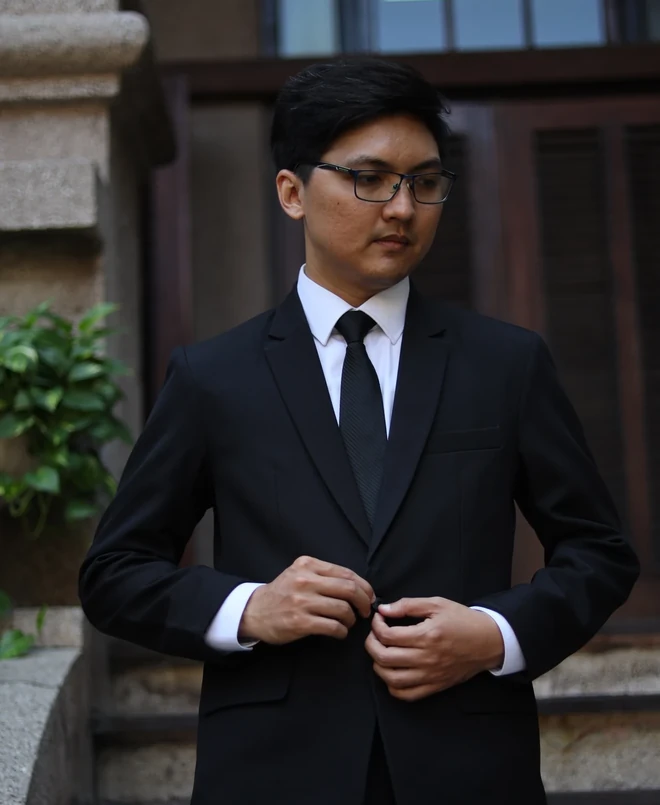
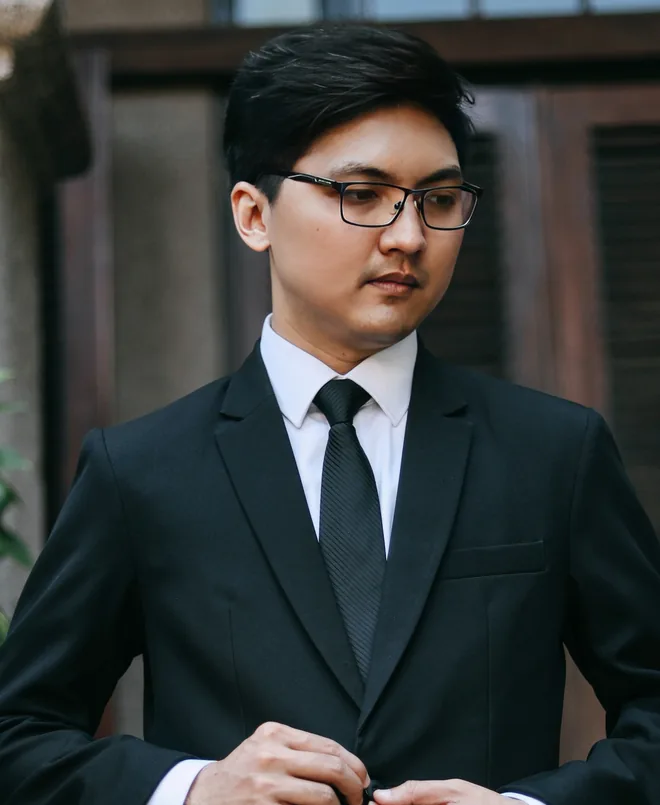
Feat: Finish wedding invitation

diff --git a/components/storyboard/StoryboardStage.tsx b/components/storyboard/StoryboardStage.tsx
@@ -4,6 +4,40 @@ import { useEffect, useLayoutEffect, useRef, useState } from 'react';
 import { SceneController, detectLayout, LAYOUT_SIZE, type Layout, type RefMap } from './SceneController';
 import { WEDDING_DATA } from '@/lib/constants';
 
+// Tap-to-copy for the gift card (account number / address). Falls back to
+// execCommand because navigator.clipboard needs a secure context (HTTPS),
+// and guests may open the dev/LAN build over plain http.
+async function copyText(text: string): Promise<boolean> {
+  try {
+    if (navigator.clipboard && window.isSecureContext) {
+      await navigator.clipboard.writeText(text);
+      return true;
+    }
+  } catch {
+    /* fall through */
+  }
+  try {
+    const ta = document.createElement('textarea');
+    ta.value = text;
+    ta.setAttribute('readonly', '');
+    ta.style.cssText = 'position:fixed;top:0;left:0;opacity:0;pointer-events:none';
+    document.body.appendChild(ta);
+    ta.select();
+    ta.setSelectionRange(0, text.length);
+    const ok = document.execCommand('copy');
+    document.body.removeChild(ta);
+    return ok;
+  } catch {
+    return false;
+  }
+}
+
+const COPY_BTN: React.CSSProperties = {
+  display: 'flex', flexDirection: 'column', alignItems: 'flex-start', gap: 6, padding: 0, margin: 0,
+  border: 0, background: 'transparent', textAlign: 'left', cursor: 'pointer', font: 'inherit', color: 'inherit',
+  WebkitTapHighlightColor: 'transparent',
+};
+
 type Wish = { id: string; name: string; message: string; when: string };
 type RsvpState = {
   status: 'hadir' | 'tidak_hadir' | null;
@@ -75,6 +109,16 @@ export default function StoryboardStage({
 
   const [rsvp, setRsvp] = useState<RsvpState>(initialRsvp);
   const [showShortCode, setShowShortCode] = useState(false);
+  const [copied, setCopied] = useState<string | null>(null);
+  const copiedTimer = useRef<ReturnType<typeof setTimeout> | null>(null);
+  const doCopy = async (key: string, text: string) => {
+    if (!text) return;
+    if (await copyText(text)) {
+      setCopied(key);
+      if (copiedTimer.current) clearTimeout(copiedTimer.current);
+      copiedTimer.current = setTimeout(() => setCopied(null), 1800);
+    }
+  };
   const [reopenCount, setReopenCount] = useState('1');
   const [reopening, setReopening] = useState(false);
 
@@ -361,9 +405,11 @@ export default function StoryboardStage({
         {/*
           Frame 07 photo slot (2026-09-26). The concept doc left this frame
           "menunggu satu foto baru" after the original couple photo moved to
-          frame 03. Uses photo-10 (the two of them standing side by side,
-          hand in hand — "akhirnya berdiri berdampingan"), cropped to 3:4 as
-          /photos/reunited-together.webp. Framed like the frame-03 cards.
+          frame 03. Uses prewedding photo 0C5A1190 (user's pick: the two of
+          them standing side by side, hand in hand, on a rock below the
+          waterfall — "akhirnya berdiri berdampingan"), cropped to 3:4 as /photos/reunited-together.webp
+          (2026-10-24; couple-reinaldo/eunike.webp likewise now come from
+          0C5A0703 / 0C5A0677 of the same set). Framed like the frame-03 cards.
           Sits in the scene area: below the shrunken monogram crest, above
           the frame-07 text (portrait) / centred in the left half
           (landscape). Opacity/transform driven from paint().
@@ -384,7 +430,7 @@ export default function StoryboardStage({
           }}
         >
           {/* eslint-disable-next-line @next/next/no-img-element */}
-          <img src="/photos/reunited-together.webp" alt="Reinaldo and Eunike, side by side" style={{ display: 'block', width: '100%', aspectRatio: '3 / 4', objectFit: 'cover' }} />
+          <img src="/photos/reunited-together.webp" alt="Reinaldo and Eunike, side by side at the waterfall" style={{ display: 'block', width: '100%', aspectRatio: '3 / 4', objectFit: 'cover' }} />
         </div>
 
         <div
@@ -947,7 +993,7 @@ export default function StoryboardStage({
         >
           <div style={{ fontSize: 24, letterSpacing: '.34em', textTransform: 'uppercase', color: '#A08B62' }}>Gallery</div>
           <p style={{ margin: 0, maxWidth: 820, textAlign: 'center', fontFamily: "'Cormorant Garamond',serif", fontSize: 48, lineHeight: 1.4, color: '#5A4830' }}>
-            The small pieces of our journey — from the first meeting to this very day — gathered into one album.
+            A few moments from our prewedding — city streets, old halls, and a waterfall — gathered into one album.
           </p>
           <button
             onClick={() => c().onScrapOpen()}
@@ -1318,7 +1364,10 @@ export default function StoryboardStage({
                 <div key={i} style={{ display: 'flex', flexDirection: 'column', gap: land ? 8 : 12, padding: land ? '26px 34px' : '36px 38px', background: 'rgba(253,250,243,.96)', border: '1px solid rgba(122,95,53,.26)', boxShadow: '0 24px 54px rgba(122,95,53,.18)' }}>
                   <span style={{ fontSize: 20, letterSpacing: '.22em', textTransform: 'uppercase', color: '#A08B62' }}>{acc.bank || 'Bank'}</span>
                   <span style={{ fontFamily: "'Cormorant Garamond',serif", fontStyle: 'italic', fontSize: land ? 26 : 30, color: '#8A6B3A' }}>Account Number</span>
-                  <span style={{ fontFamily: "'Cormorant Garamond',serif", fontSize: land ? 44 : 60, lineHeight: 1.1, color: '#7A5F35', letterSpacing: '.04em', whiteSpace: 'nowrap' }}>{acc.accountNumber || '—'}</span>
+                  <button type="button" onClick={() => doCopy(`acc${i}`, acc.accountNumber.replace(/\s+/g, ''))} aria-label={`Copy account number ${acc.accountNumber}`} style={COPY_BTN}>
+                    <span style={{ fontFamily: "'Cormorant Garamond',serif", fontSize: land ? 44 : 60, lineHeight: 1.1, color: '#7A5F35', letterSpacing: '.04em', whiteSpace: 'nowrap' }}>{acc.accountNumber || '—'}</span>
+                    <span style={{ fontFamily: "'Jost',sans-serif", fontSize: land ? 15 : 18, letterSpacing: '.18em', textTransform: 'uppercase', color: copied === `acc${i}` ? '#5E7A3A' : '#A08B62' }}>{copied === `acc${i}` ? 'Copied ✓' : 'Tap to copy'}</span>
+                  </button>
                   <span style={{ marginTop: land ? 6 : 10, fontFamily: "'Cormorant Garamond',serif", fontStyle: 'italic', fontSize: land ? 26 : 30, color: '#8A6B3A' }}>Account Name</span>
                   <span style={{ fontFamily: "'Cormorant Garamond',serif", fontSize: land ? 32 : 38, color: '#5A4830' }}>{acc.accountName || '—'}</span>
                 </div>
@@ -1331,7 +1380,10 @@ export default function StoryboardStage({
                   {WEDDING_DATA.giftAddress.recipient || '—'} {WEDDING_DATA.giftAddress.phone ? `· ${WEDDING_DATA.giftAddress.phone}` : ''}
                 </span>
                 <span style={{ marginTop: land ? 6 : 10, fontFamily: "'Cormorant Garamond',serif", fontStyle: 'italic', fontSize: land ? 26 : 30, color: '#8A6B3A' }}>Address</span>
-                <span style={{ fontFamily: "'Cormorant Garamond',serif", fontSize: land ? 32 : 36, lineHeight: 1.4, color: '#5A4830' }}>{WEDDING_DATA.giftAddress.address || '—'}</span>
+                <button type="button" onClick={() => doCopy('addr', WEDDING_DATA.giftAddress.copyAddress || WEDDING_DATA.giftAddress.address)} aria-label="Copy address" style={COPY_BTN}>
+                  <span style={{ fontFamily: "'Cormorant Garamond',serif", fontSize: land ? 32 : 36, lineHeight: 1.4, color: '#5A4830' }}>{WEDDING_DATA.giftAddress.address || '—'}</span>
+                  <span style={{ fontFamily: "'Jost',sans-serif", fontSize: land ? 15 : 18, letterSpacing: '.18em', textTransform: 'uppercase', color: copied === 'addr' ? '#5E7A3A' : '#A08B62' }}>{copied === 'addr' ? 'Copied ✓' : 'Tap to copy'}</span>
+                </button>
               </div>
             </div>
           </div>
@@ -1365,13 +1417,12 @@ export default function StoryboardStage({
             bar is driven imperatively from SceneController (onScrapScroll),
             matching this component's usual pattern of plain refs +
             imperative DOM writes rather than React state.
-            15 photo slots filled with this project's existing sample/couple
-            photos (photo-01..11.webp + couple-reinaldo/eunike.webp) —
-            photo-04.webp and photo-05.webp are reused a second time to fill
-            the 2 extra slots since only 13 source files exist on disk;
-            final curated scrapbook photos still TBD per the project's
-            "Not started" list; video slot renders a real YouTube embed once
-            WEDDING_DATA.youtubeVideoId is filled in, placeholder until then. */}
+            15 photo slots use the real prewedding photos
+            (public/photos/gallery/gallery-01..15.webp, picked 2026-10-24
+            from the photographer's 43-photo set: casual city, formal
+            heritage building, waterfall); objectPosition tweaks keep faces
+            in frame where a slot crops a portrait hard. Video slot embeds
+            WEDDING_DATA.youtubeVideoId. */}
         <div
           ref={bind('scrap')}
           onClick={() => c().onScrapClose()}
@@ -1448,42 +1499,42 @@ export default function StoryboardStage({
                   <div style={{ position: 'absolute', right: -39, top: -28, width: 205, height: 53, background: 'rgba(226,205,160,.55)', transform: 'rotate(7deg)' }} />
                   <div style={{ position: 'relative', width: '100%', aspectRatio: '4/3' }}>
                     {/* eslint-disable-next-line @next/next/no-img-element */}
-                    <img src="/photos/photo-01.webp" alt="Our story begins" style={{ width: '100%', height: '100%', objectFit: 'cover', display: 'block' }} draggable={false} />
+                    <img src="/photos/gallery/gallery-01.webp" alt="Our story begins" style={{ width: '100%', height: '100%', objectFit: 'cover', display: 'block' }} draggable={false} />
                   </div>
-                  <div style={{ position: 'absolute', left: 0, right: 0, bottom: 28, textAlign: 'center', fontFamily: "'Cormorant Garamond',serif", fontStyle: 'italic', fontSize: 44, color: '#6B573A' }}>opening photo</div>
                 </div>
 
                 {/* Portrait pair */}
                 <div style={{ display: 'grid', gridTemplateColumns: 'minmax(0,1fr) minmax(0,1fr)', gap: 44, alignItems: 'start' }}>
                   {[
-                    { src: '/photos/photo-02.webp', rot: 1.6, no: '02' },
-                    { src: '/photos/photo-03.webp', rot: -2, no: '03' },
+                    { src: '/photos/gallery/gallery-02.webp', rot: 1.6, no: '02' },
+                    { src: '/photos/gallery/gallery-03.webp', rot: -2, no: '03' },
                   ].map((p) => (
                     <div key={p.no} data-photo style={{ position: 'relative', minWidth: 0, minHeight: 0, padding: '22px 22px 72px', background: '#FFFDF7', boxShadow: '0 28px 60px rgba(90,72,48,.16)', transform: `rotate(${p.rot}deg)`, transition: 'transform .45s cubic-bezier(.2,.75,.2,1),box-shadow .45s', cursor: 'zoom-in' }}>
                       <div style={{ position: 'relative', width: '100%', aspectRatio: '3/4' }}>
                         {/* eslint-disable-next-line @next/next/no-img-element */}
                         <img src={p.src} alt="Portrait" style={{ width: '100%', height: '100%', objectFit: 'cover', display: 'block' }} draggable={false} />
                       </div>
-                      <div style={{ position: 'absolute', left: 0, right: 0, bottom: 22, textAlign: 'center', fontSize: 25, letterSpacing: '.26em', color: '#A08B62' }}>{p.no}</div>
                     </div>
                   ))}
                 </div>
 
                 {/* Collage */}
                 <div style={{ display: 'flex', flexDirection: 'column', gap: 38, padding: '55px 44px', background: 'repeating-linear-gradient(135deg,#F2EADA 0 16px,#EFE6D2 16px 32px)', border: '1px solid rgba(122,95,53,.2)', boxShadow: '0 28px 66px rgba(90,72,48,.1)' }}>
-                  <div style={{ fontSize: 25, letterSpacing: '.32em', textTransform: 'uppercase', color: '#A08B62' }}>collage</div>
                   <div style={{ display: 'grid', gridTemplateColumns: 'minmax(0,1.2fr) minmax(0,1fr)', gridTemplateRows: '266px 266px', gap: 28 }}>
                     <div data-photo style={{ position: 'relative', gridRow: 'span 2', minWidth: 0, minHeight: 0, height: '100%', padding: 17, background: '#FFFDF7', boxShadow: '0 22px 50px rgba(90,72,48,.16)', transition: 'transform .45s cubic-bezier(.2,.75,.2,1),box-shadow .45s', cursor: 'zoom-in' }}>
                       <div style={{ position: 'relative', width: '100%', height: '100%' }}>
                         {/* eslint-disable-next-line @next/next/no-img-element */}
-                        <img src="/photos/couple-reinaldo.webp" alt="Together" style={{ width: '100%', height: '100%', objectFit: 'cover', display: 'block' }} draggable={false} />
+                        <img src="/photos/gallery/gallery-04.webp" alt="Together" style={{ width: '100%', height: '100%', objectFit: 'cover', objectPosition: 'center 100%', display: 'block' }} draggable={false} />
                       </div>
                     </div>
-                    {['/photos/photo-04.webp', '/photos/photo-05.webp'].map((src) => (
+                    {[
+                      { src: '/photos/gallery/gallery-05.webp', pos: 'center 55%' },
+                      { src: '/photos/gallery/gallery-06.webp', pos: 'center 75%' },
+                    ].map(({ src, pos }) => (
                       <div key={src} data-photo style={{ position: 'relative', minWidth: 0, minHeight: 0, padding: 17, background: '#FFFDF7', boxShadow: '0 22px 50px rgba(90,72,48,.16)', transition: 'transform .45s cubic-bezier(.2,.75,.2,1),box-shadow .45s', cursor: 'zoom-in' }}>
                         <div style={{ position: 'relative', width: '100%', height: '100%' }}>
                           {/* eslint-disable-next-line @next/next/no-img-element */}
-                          <img src={src} alt="Together" style={{ width: '100%', height: '100%', objectFit: 'cover', display: 'block' }} draggable={false} />
+                          <img src={src} alt="Together" style={{ width: '100%', height: '100%', objectFit: 'cover', objectPosition: pos, display: 'block' }} draggable={false} />
                         </div>
                       </div>
                     ))}
@@ -1491,53 +1542,42 @@ export default function StoryboardStage({
                   <div data-photo style={{ position: 'relative', minWidth: 0, minHeight: 0, padding: 17, background: '#FFFDF7', boxShadow: '0 22px 50px rgba(90,72,48,.16)', transition: 'transform .45s cubic-bezier(.2,.75,.2,1),box-shadow .45s', cursor: 'zoom-in' }}>
                     <div style={{ position: 'relative', width: '100%', aspectRatio: '2/1' }}>
                       {/* eslint-disable-next-line @next/next/no-img-element */}
-                      <img src="/photos/photo-06.webp" alt="Together" style={{ width: '100%', height: '100%', objectFit: 'cover', display: 'block' }} draggable={false} />
+                      <img src="/photos/gallery/gallery-07.webp" alt="Together" style={{ width: '100%', height: '100%', objectFit: 'cover', display: 'block' }} draggable={false} />
                     </div>
                   </div>
                 </div>
 
                 {/* A favorite frame */}
                 <div style={{ display: 'flex', flexDirection: 'column', gap: 44 }}>
-                  <div style={{ display: 'flex', alignItems: 'center', gap: 32 }}>
-                    <span style={{ fontSize: 25, letterSpacing: '.32em', textTransform: 'uppercase', color: '#A08B62' }}>a favorite frame</span>
-                    <span style={{ flex: 1, height: 2, background: 'rgba(122,95,53,.25)' }} />
-                  </div>
                   <div data-photo style={{ position: 'relative', minWidth: 0, minHeight: 0, padding: '28px 28px 89px', background: '#FFFDF7', boxShadow: '0 38px 84px rgba(90,72,48,.2)', transform: 'rotate(1.1deg)', transition: 'transform .45s cubic-bezier(.2,.75,.2,1),box-shadow .45s', cursor: 'zoom-in' }}>
                     <div style={{ position: 'relative', width: '100%', aspectRatio: '4/5' }}>
                       {/* eslint-disable-next-line @next/next/no-img-element */}
-                      <img src="/photos/couple-eunike.webp" alt="Our favorite" style={{ width: '100%', height: '100%', objectFit: 'cover', display: 'block' }} draggable={false} />
+                      <img src="/photos/gallery/gallery-08.webp" alt="Our favorite" style={{ width: '100%', height: '100%', objectFit: 'cover', display: 'block' }} draggable={false} />
                     </div>
-                    <div style={{ position: 'absolute', left: 0, right: 0, bottom: 28, textAlign: 'center', fontFamily: "'Cormorant Garamond',serif", fontStyle: 'italic', fontSize: 44, color: '#6B573A' }}>favorite</div>
                   </div>
                 </div>
 
                 {/* Instant frames */}
                 <div style={{ display: 'flex', flexDirection: 'column', gap: 44 }}>
-                  <div style={{ display: 'flex', alignItems: 'center', gap: 32 }}>
-                    <span style={{ fontSize: 25, letterSpacing: '.32em', textTransform: 'uppercase', color: '#A08B62' }}>instant frames</span>
-                    <span style={{ flex: 1, height: 2, background: 'rgba(122,95,53,.25)' }} />
-                  </div>
                   <div style={{ display: 'grid', gridTemplateColumns: 'minmax(0,1fr) minmax(0,1fr)', gap: 44, alignItems: 'start' }}>
                     {[
-                      { src: '/photos/photo-07.webp', rot: -3, no: '09' },
-                      { src: '/photos/photo-08.webp', rot: 2, no: '10' },
-                      { src: '/photos/photo-04.webp', rot: -2.4, no: '11' },
-                      { src: '/photos/photo-05.webp', rot: 1.8, no: '12' },
+                      { src: '/photos/gallery/gallery-09.webp', rot: -3, no: '09', pos: 'center 40%' },
+                      { src: '/photos/gallery/gallery-10.webp', rot: 2, no: '10', pos: 'center 50%' },
+                      { src: '/photos/gallery/gallery-11.webp', rot: -2.4, no: '11', pos: 'center 60%' },
+                      { src: '/photos/gallery/gallery-12.webp', rot: 1.8, no: '12', pos: 'center 70%' },
                     ].map((p) => (
                       <div key={p.no} data-photo style={{ position: 'relative', minWidth: 0, minHeight: 0, padding: '22px 22px 83px', background: '#FFFEFA', boxShadow: '0 28px 60px rgba(90,72,48,.18)', transform: `rotate(${p.rot}deg)`, transition: 'transform .45s cubic-bezier(.2,.75,.2,1),box-shadow .45s', cursor: 'zoom-in' }}>
                         <div style={{ position: 'relative', width: '100%', aspectRatio: '1/1' }}>
                           {/* eslint-disable-next-line @next/next/no-img-element */}
-                          <img src={p.src} alt="Together" style={{ width: '100%', height: '100%', objectFit: 'cover', display: 'block' }} draggable={false} />
+                          <img src={p.src} alt="Together" style={{ width: '100%', height: '100%', objectFit: 'cover', objectPosition: p.pos, display: 'block' }} draggable={false} />
                         </div>
-                        <div style={{ position: 'absolute', left: 0, right: 0, bottom: 25, textAlign: 'center', fontSize: 25, letterSpacing: '.26em', color: '#A08B62' }}>{p.no}</div>
                       </div>
                     ))}
                     <div data-photo style={{ position: 'relative', gridColumn: 'span 2', minWidth: 0, justifySelf: 'center', width: '62%', padding: '22px 22px 83px', background: '#FFFEFA', boxShadow: '0 28px 60px rgba(90,72,48,.18)', transform: 'rotate(-1.4deg)', transition: 'transform .45s cubic-bezier(.2,.75,.2,1),box-shadow .45s', cursor: 'zoom-in' }}>
                       <div style={{ position: 'relative', width: '100%', aspectRatio: '1/1' }}>
                         {/* eslint-disable-next-line @next/next/no-img-element */}
-                        <img src="/photos/photo-09.webp" alt="Together" style={{ width: '100%', height: '100%', objectFit: 'cover', display: 'block' }} draggable={false} />
+                        <img src="/photos/gallery/gallery-13.webp" alt="Together" style={{ width: '100%', height: '100%', objectFit: 'cover', objectPosition: 'center 35%', display: 'block' }} draggable={false} />
                       </div>
-                      <div style={{ position: 'absolute', left: 0, right: 0, bottom: 25, textAlign: 'center', fontSize: 25, letterSpacing: '.26em', color: '#A08B62' }}>13</div>
                     </div>
                   </div>
                 </div>
@@ -1545,8 +1585,8 @@ export default function StoryboardStage({
                 {/* Landscape pair */}
                 <div style={{ display: 'flex', flexDirection: 'column', gap: 50 }}>
                   {[
-                    { src: '/photos/photo-10.webp', rot: -0.8 },
-                    { src: '/photos/photo-11.webp', rot: 1 },
+                    { src: '/photos/gallery/gallery-14.webp', rot: -0.8 },
+                    { src: '/photos/gallery/gallery-15.webp', rot: 1 },
                   ].map((p) => (
                     <div key={p.src} data-photo style={{ position: 'relative', minWidth: 0, minHeight: 0, padding: 22, background: '#FFFDF7', boxShadow: '0 32px 70px rgba(90,72,48,.16)', transform: `rotate(${p.rot}deg)`, transition: 'transform .45s cubic-bezier(.2,.75,.2,1),box-shadow .45s', cursor: 'zoom-in' }}>
                       <div style={{ position: 'relative', width: '100%', aspectRatio: '3/2' }}>
@@ -1559,10 +1599,6 @@ export default function StoryboardStage({
 
                 {/* Video slot */}
                 <div style={{ display: 'flex', flexDirection: 'column', gap: 38 }}>
-                  <div style={{ display: 'flex', alignItems: 'center', gap: 32 }}>
-                    <span style={{ fontSize: 25, letterSpacing: '.32em', textTransform: 'uppercase', color: '#A08B62' }}>short video</span>
-                    <span style={{ flex: 1, height: 2, background: 'rgba(122,95,53,.25)' }} />
-                  </div>
                   {WEDDING_DATA.youtubeVideoId ? (
                     <div style={{ position: 'relative', width: '100%', aspectRatio: '16/9', background: '#000', border: '1px solid rgba(122,95,53,.24)' }}>
                       <iframe
@@ -1610,7 +1646,7 @@ export default function StoryboardStage({
           style={{ position: 'absolute', inset: 0, background: 'rgba(20,15,10,.94)', display: 'flex', alignItems: 'center', justifyContent: 'center', padding: 80, boxSizing: 'border-box', opacity: 0, pointerEvents: 'none', cursor: 'pointer', transition: 'opacity .35s ease' }}
         >
           {/* eslint-disable-next-line @next/next/no-img-element */}
-          <img ref={bind('lbImg') as unknown as React.Ref<HTMLImageElement>} src="/photos/photo-01.webp" alt="Gallery photo" style={{ maxWidth: '100%', maxHeight: '100%', objectFit: 'contain', display: 'block', boxShadow: '0 40px 90px rgba(0,0,0,.6)' }} />
+          <img ref={bind('lbImg') as unknown as React.Ref<HTMLImageElement>} src="/photos/gallery/gallery-01.webp" alt="Gallery photo" style={{ maxWidth: '100%', maxHeight: '100%', objectFit: 'contain', display: 'block', boxShadow: '0 40px 90px rgba(0,0,0,.6)' }} />
           <span style={{ position: 'absolute', bottom: 120, fontSize: 22, letterSpacing: '.3em', textTransform: 'uppercase', color: 'rgba(240,228,200,.7)' }}>touch to close</span>
         </div>
 
@@ -1818,11 +1854,6 @@ export default function StoryboardStage({
               <div style={{ maxWidth: 720, fontSize: 25, lineHeight: 1.6, letterSpacing: '.04em', color: '#7A5F35', textAlign: 'center' }}>Should there be any error in the spelling of your name or title, we sincerely apologise.</div>
             </div>
             <div style={{ marginTop: 12, fontSize: 26, letterSpacing: '.4em', textTransform: 'uppercase', color: '#8A7248' }}>touch to open</div>
-          </div>
-
-          <div style={{ position: 'absolute', bottom: land ? 44 : 70, left: 0, right: 0, display: 'flex', flexDirection: 'column', alignItems: 'center', gap: 14 }}>
-            <div style={{ fontSize: 22, letterSpacing: '.26em', textTransform: 'uppercase', color: 'rgba(122,95,53,.45)' }}>WebGL · frames 01–14 · 90-second cut</div>
-            <div style={{ fontSize: 20, letterSpacing: '.18em', textTransform: 'uppercase', color: 'rgba(122,95,53,.35)' }}>space = pause · ← → = scrub · R = restart</div>
           </div>
         </div>
       </div>

diff --git a/lib/constants.ts b/lib/constants.ts
@@ -34,9 +34,11 @@ export const WEDDING_DATA = {
     recipient: 'Reinaldo',
     phone: '087887602355',
     address: 'Jalan Wimbledon Raya A1/09',
+    // Full address copied to the clipboard when the guest taps the address.
+    copyAddress: 'Perumahan Wimbledon Jababeka, Jalan Wimbledon Raya blok A1-09, Jatireja, Cikarang Timur, Kabupaten Bekasi, Jawa Barat, 17533',
   },
 
-  youtubeVideoId: '', // TODO: unlisted YouTube video ID for the Gallery video slot
+  youtubeVideoId: 'jmJl0czpjB8', // YouTube video for the Gallery video slot (https://youtu.be/jmJl0czpjB8)
 
   backgroundMusicUrl: '/audio/music.mp3',
 

diff --git a/components/scrapbook/README.md b/components/scrapbook/README.md
@@ -20,17 +20,10 @@ the concept doc's 390px-wide preview up to this app's actual 1080-wide
 design canvas.
 
 15 photo slots (opening / portrait pair / 4-photo collage / a favorite
-frame / 5 instant frames / landscape pair) are filled with this project's
-existing sample + couple photos (`photo-01..11.webp` +
-`couple-reinaldo.webp` / `couple-eunike.webp`) — all 13 available images
-are used, with `photo-04.webp` and `photo-05.webp` reused a second time
-(2026-09-20 "15 photos" follow-up: the user asked to expand the album to
-15 slots, but only 13 source files exist on disk, so 2 of the instant
-frames intentionally repeat a photo already shown elsewhere in the album
-as a placeholder) to fill out the 2 extra slots. Final curated scrapbook
-photography is still open, per the project's "Not started" list (spec
-eventually wants up to 15 curated specifically for this album, separate
-from the storyboard's own gallery).
+frame / 5 instant frames / landscape pair) use the real prewedding photos
+in `public/photos/gallery/gallery-01..15.webp` (picked 2026-10-24 from the
+photographer's 43-photo set). Captions and section labels were removed
+on request (2026-10-24); the old `photo-01..11.webp` samples were deleted.
 
 Video slot renders a real `youtube-nocookie.com` embed once
 `WEDDING_DATA.youtubeVideoId` (lib/constants.ts) is filled in; until then
